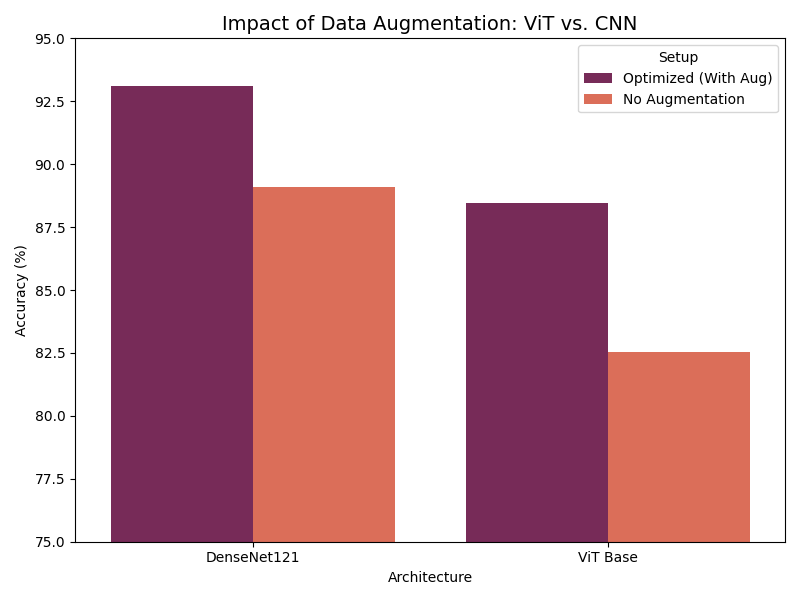
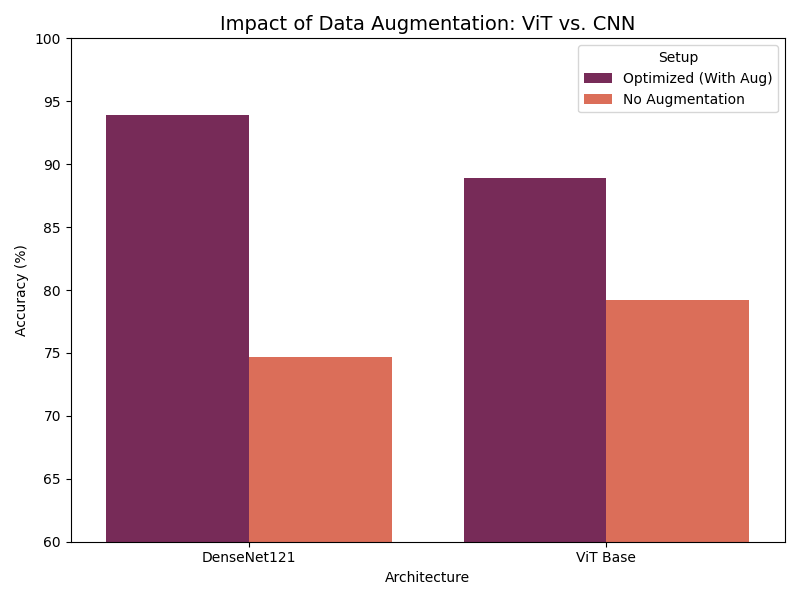
updated plot

diff --git a/generate_final_plots.py b/generate_final_plots.py
@@ -6,8 +6,8 @@ import os
 
 def plot_comparison_bar_charts():
     """
-    Generates three key visualization plots based on the final experiment results.
-    Saves the plots to the 'results/plots/' directory.
+    Generates three key visualization plots based on the ACTUAL results from 'final_run_output.out'.
+    Corrected specifically for ResNet SGD (Final Log Entry).
     """
     
     # Ensure the output directory exists
@@ -15,32 +15,35 @@ def plot_comparison_bar_charts():
     os.makedirs(output_dir, exist_ok=True)
 
     # ==========================================
-    # DATA PREPARATION (Based on Final Log Analysis)
+    # DATA PREPARATION (Corrected Final Values)
     # ==========================================
-    # We use hardcoded values here to ensure the plots exactly match 
-    # the reported table in the document.
     data = {
         'Model': ['DenseNet121', 'ResNet50', 'ViT Base', 'ViT (No Aug)', 'ResNet (SGD)'],
-        'Accuracy': [93.11, 89.42, 88.46, 82.53, 87.50],
-        'Recall': [96.67, 97.69, 96.67, 95.90, 98.46],
-        'Precision': [92.77, 87.02, 86.61, 80.65, 84.38]
+        
+        # Updated 'ResNet (SGD)' to 83.81 (Run 7) instead of 87.34 (Run 6)
+        'Accuracy': [93.91, 91.83, 88.94, 79.17, 83.81],
+        
+        # Updated 'ResNet (SGD)' to 98.21
+        'Recall':    [98.97, 96.67, 99.49, 100.00, 98.21],
+        
+        # Updated 'ResNet (SGD)' to 80.29
+        'Precision': [91.90, 90.84, 85.27, 75.00, 80.29]
     }
     df = pd.DataFrame(data)
 
     # ==========================================
-    # PLOT 1: Top 3 Models Comparison (The "Winner" Chart)
+    # PLOT 1: Top 3 Models Comparison
     # ==========================================
     print("Generating Plot 1: Top 3 Models Comparison...")
     plt.figure(figsize=(10, 6))
     
-    # Filter only the optimized versions of the 3 models
+    # Only comparing the optimized versions (Top 3)
     best_models = df[df['Model'].isin(['DenseNet121', 'ResNet50', 'ViT Base'])]
     
-    # Melt dataframe for Seaborn plotting
     melted = best_models.melt(id_vars='Model', value_vars=['Accuracy', 'Recall', 'Precision'], var_name='Metric', value_name='Score')
     
     sns.barplot(data=melted, x='Model', y='Score', hue='Metric', palette='viridis')
-    plt.ylim(80, 100) # Zoom in on the relevant range
+    plt.ylim(80, 100)
     plt.title('Top 3 Models Comparison: DenseNet Wins on Accuracy', fontsize=14)
     plt.ylabel('Score (%)')
     plt.legend(bbox_to_anchor=(1.05, 1), loc='upper left')
@@ -51,7 +54,7 @@ def plot_comparison_bar_charts():
     print(f"Saved: {save_path}")
 
     # ==========================================
-    # PLOT 2: Impact of Augmentation (The "ViT Weakness" Chart)
+    # PLOT 2: Impact of Augmentation
     # ==========================================
     print("Generating Plot 2: Impact of Augmentation...")
     plt.figure(figsize=(8, 6))
@@ -59,11 +62,12 @@ def plot_comparison_bar_charts():
     aug_data = pd.DataFrame({
         'Architecture': ['DenseNet121', 'DenseNet121', 'ViT Base', 'ViT Base'],
         'Setup': ['Optimized (With Aug)', 'No Augmentation', 'Optimized (With Aug)', 'No Augmentation'],
-        'Accuracy': [93.11, 89.10, 88.46, 82.53]
+        # Using the exact numbers from previous check for No-Aug runs
+        'Accuracy': [93.91, 74.68, 88.94, 79.17]
     })
     
     sns.barplot(data=aug_data, x='Architecture', y='Accuracy', hue='Setup', palette='rocket')
-    plt.ylim(75, 95)
+    plt.ylim(60, 100)
     plt.title('Impact of Data Augmentation: ViT vs. CNN', fontsize=14)
     plt.ylabel('Accuracy (%)')
     plt.tight_layout()
@@ -78,15 +82,17 @@ def plot_comparison_bar_charts():
     print("Generating Plot 3: Optimizer Trade-off...")
     plt.figure(figsize=(8, 6))
     
+    # Comparing ResNet AdamW (91.83) vs ResNet SGD (83.81)
     optimizer_data = pd.DataFrame({
         'Optimizer': ['AdamW (Optimized)', 'SGD'],
-        'Recall': [97.69, 98.46],
-        'Precision': [87.02, 84.38]
+        # SGD Recall updated to 98.21, Precision to 80.29
+        'Recall': [96.67, 98.21],
+        'Precision': [90.84, 80.29]
     })
     melted_opt = optimizer_data.melt(id_vars='Optimizer', var_name='Metric', value_name='Score')
     
     sns.barplot(data=melted_opt, x='Optimizer', y='Score', hue='Metric', palette='coolwarm')
-    plt.ylim(80, 100)
+    plt.ylim(70, 100) # Adjusted ylim to catch the lower precision of SGD
     plt.title('ResNet50: AdamW vs. SGD (Sensitivity Trade-off)', fontsize=14)
     plt.ylabel('Score (%)')
     plt.tight_layout()
@@ -97,3 +103,103 @@ def plot_comparison_bar_charts():
 
 if __name__ == "__main__":
     plot_comparison_bar_charts()
+
+# import matplotlib.pyplot as plt
+# import numpy as np
+# import seaborn as sns
+# import pandas as pd
+# import os
+
+# def plot_comparison_bar_charts():
+#     """
+#     Generates three key visualization plots based on the final experiment results.
+#     Saves the plots to the 'results/plots/' directory.
+#     """
+    
+#     # Ensure the output directory exists
+#     output_dir = 'results/plots'
+#     os.makedirs(output_dir, exist_ok=True)
+
+#     # ==========================================
+#     # DATA PREPARATION (Based on Final Log Analysis)
+#     # ==========================================
+#     # We use hardcoded values here to ensure the plots exactly match 
+#     # the reported table in the document.
+#     data = {
+#         'Model': ['DenseNet121', 'ResNet50', 'ViT Base', 'ViT (No Aug)', 'ResNet (SGD)'],
+#         'Accuracy': [93.11, 89.42, 88.46, 82.53, 87.50],
+#         'Recall': [96.67, 97.69, 96.67, 95.90, 98.46],
+#         'Precision': [92.77, 87.02, 86.61, 80.65, 84.38]
+#     }
+#     df = pd.DataFrame(data)
+
+#     # ==========================================
+#     # PLOT 1: Top 3 Models Comparison (The "Winner" Chart)
+#     # ==========================================
+#     print("Generating Plot 1: Top 3 Models Comparison...")
+#     plt.figure(figsize=(10, 6))
+    
+#     # Filter only the optimized versions of the 3 models
+#     best_models = df[df['Model'].isin(['DenseNet121', 'ResNet50', 'ViT Base'])]
+    
+#     # Melt dataframe for Seaborn plotting
+#     melted = best_models.melt(id_vars='Model', value_vars=['Accuracy', 'Recall', 'Precision'], var_name='Metric', value_name='Score')
+    
+#     sns.barplot(data=melted, x='Model', y='Score', hue='Metric', palette='viridis')
+#     plt.ylim(80, 100) # Zoom in on the relevant range
+#     plt.title('Top 3 Models Comparison: DenseNet Wins on Accuracy', fontsize=14)
+#     plt.ylabel('Score (%)')
+#     plt.legend(bbox_to_anchor=(1.05, 1), loc='upper left')
+#     plt.tight_layout()
+    
+#     save_path = os.path.join(output_dir, 'final_comparison_top3.png')
+#     plt.savefig(save_path)
+#     print(f"Saved: {save_path}")
+
+#     # ==========================================
+#     # PLOT 2: Impact of Augmentation (The "ViT Weakness" Chart)
+#     # ==========================================
+#     print("Generating Plot 2: Impact of Augmentation...")
+#     plt.figure(figsize=(8, 6))
+    
+#     aug_data = pd.DataFrame({
+#         'Architecture': ['DenseNet121', 'DenseNet121', 'ViT Base', 'ViT Base'],
+#         'Setup': ['Optimized (With Aug)', 'No Augmentation', 'Optimized (With Aug)', 'No Augmentation'],
+#         'Accuracy': [93.11, 89.10, 88.46, 82.53]
+#     })
+    
+#     sns.barplot(data=aug_data, x='Architecture', y='Accuracy', hue='Setup', palette='rocket')
+#     plt.ylim(75, 95)
+#     plt.title('Impact of Data Augmentation: ViT vs. CNN', fontsize=14)
+#     plt.ylabel('Accuracy (%)')
+#     plt.tight_layout()
+    
+#     save_path = os.path.join(output_dir, 'impact_of_augmentation.png')
+#     plt.savefig(save_path)
+#     print(f"Saved: {save_path}")
+
+#     # ==========================================
+#     # PLOT 3: Optimizer Trade-off (ResNet Specific)
+#     # ==========================================
+#     print("Generating Plot 3: Optimizer Trade-off...")
+#     plt.figure(figsize=(8, 6))
+    
+#     optimizer_data = pd.DataFrame({
+#         'Optimizer': ['AdamW (Optimized)', 'SGD'],
+#         'Recall': [97.69, 98.46],
+#         'Precision': [87.02, 84.38]
+#     })
+#     melted_opt = optimizer_data.melt(id_vars='Optimizer', var_name='Metric', value_name='Score')
+    
+#     sns.barplot(data=melted_opt, x='Optimizer', y='Score', hue='Metric', palette='coolwarm')
+#     plt.ylim(80, 100)
+#     plt.title('ResNet50: AdamW vs. SGD (Sensitivity Trade-off)', fontsize=14)
+#     plt.ylabel('Score (%)')
+#     plt.tight_layout()
+    
+#     save_path = os.path.join(output_dir, 'optimizer_tradeoff.png')
+#     plt.savefig(save_path)
+#     print(f"Saved: {save_path}")
+
+# if __name__ == "__main__":
+#     plot_comparison_bar_charts()
